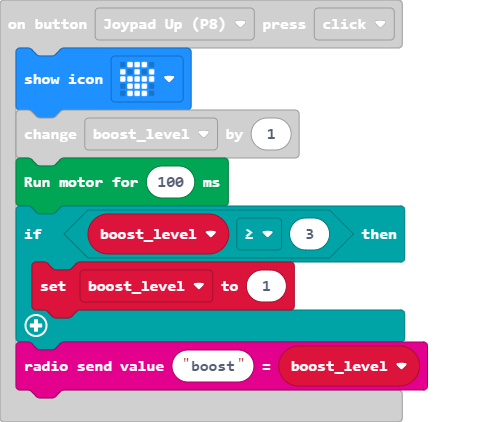
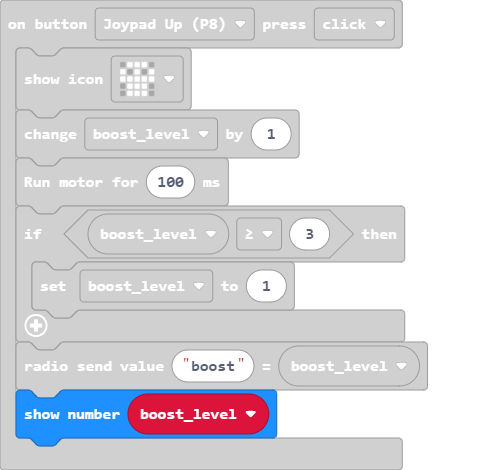
Update main.blocks, main.ts

diff --git a/main.ts b/main.ts
@@ -14,6 +14,7 @@ Kitronik_Game_Controller.onButtonPress(Kitronik_Game_Controller.ControllerButton
         boost_level = 1
     }
     radio.sendValue("boost", boost_level)
+    basic.showNumber(boost_level)
 })
 Kitronik_Game_Controller.onButtonPress(Kitronik_Game_Controller.ControllerButtonPins.Right, Kitronik_Game_Controller.ControllerButtonEvents.Up, function () {
     basic.clearScreen()
